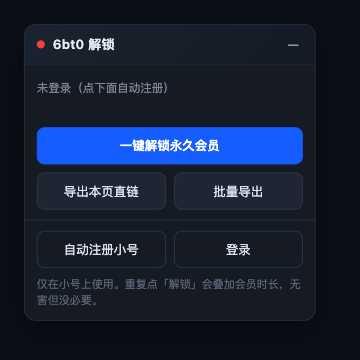
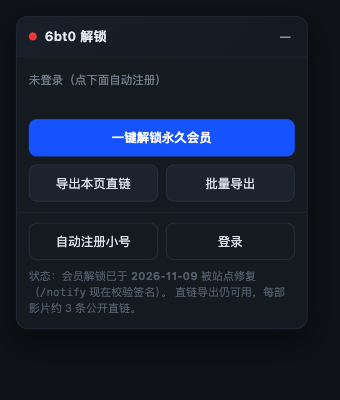
docs+feat(v1.1.0): 站点已修复支付回调，改为如实标注状态；保留直链导出能力
- /notify 现在校验签名，伪造回调返回 fail，会员解锁失效
- 面板新增状态提示，解锁失败时给出明确原因
- README / 落地页 / 漏洞文档同步更新状态

diff --git a/userscript/6bt0-vip.user.js b/userscript/6bt0-vip.user.js
@@ -1,8 +1,8 @@
 // ==UserScript==
 // @name         6bt0（不太灵） 会员解锁 + 网盘直链导出
 // @namespace    https://github.com/Yanqing797/6bt0-unlock
-// @version      1.0.3
-// @description  影视站 6bt0 / 0bt0~9bt0 一键解锁永久会员（伪支付回调），并批量导出全站网盘直链
+// @version      1.1.0
+// @description  6bt0 / 0bt0~9bt0 网盘直链批量导出（会员解锁已于 2026-11-09 被站点修复，仅作记录）
 // @author       Yanqing
 // @homepageURL  https://github.com/Yanqing797/6bt0-unlock
 // @supportURL   https://github.com/Yanqing797/6bt0-unlock/issues
@@ -40,7 +40,7 @@
   const randId = () => 'u' + Date.now().toString(36).slice(-6) + Math.random().toString(36).slice(2, 4);
   const randPw = () => 'Kq' + Math.random().toString(36).slice(2, 10) + '!9';
 
-  function toast(msg, kind) {
+  function toast(msg, kind, ms) {
     const el = document.createElement('div');
     el.className = 'unlock-toast ' + (kind || 'info');
     el.textContent = msg;
@@ -48,7 +48,7 @@
     setTimeout(() => {
       el.style.opacity = '0';
       setTimeout(() => el.remove(), 400);
-    }, 2600);
+    }, ms || 2600);
   }
 
   function logStep(p) {
@@ -265,7 +265,10 @@
           </div>
         </div>
         <div class="unlock-list" id="unlock-result" style="display:none"></div>
-        <div class="unlock-tip">仅在小号上使用。重复点「解锁」会叠加会员时长，无害但没必要。</div>
+        <div class="unlock-tip" id="unlock-status">
+          状态：会员解锁已于 <b>2026-11-09</b> 被站点修复（<code>/notify</code> 现在校验签名）。
+          直链导出仍可用，每部影片约 3 条公开直链。
+        </div>
       </div>`;
     document.body.appendChild(p);
 
@@ -335,7 +338,8 @@
           toast('✔ 永久会员已开通：' + (r.user.vip_expire_at || ''), 'ok');
           await refreshMeta();
         } else {
-          toast('没到账，回调返回：' + r.cb, 'err');
+          toast('解锁失败：站点已修复支付回调（回调返回 ' + (r.cb || 'fail') + '）。'
+                + '当前仍可点「导出本页直链」拿公开直链。', 'err', 6000);
         }
       } else if (kind === 'export') {
         const m = location.pathname.match(/\/mv\/(\d+)/) || location.pathname.match(/\/tv\/(\d+)/);

diff --git a/docs/index.html b/docs/index.html
@@ -62,6 +62,11 @@
       🦞 GreasyFork 页
     </a>
   </div>
+  <div style="background:#3a1215;border:1px solid #7a2a2f;border-radius:10px;padding:14px 18px;margin:0 0 22px;font-size:14px;line-height:1.6;color:#ffd9dc">
+    <b>⚠ 会员解锁已于 2026-11-09 被站点修复</b><br>
+    <span style="color:#e8b1b5">站点给支付回调加了签名校验，伪造请求现在只返回 <code style="background:#2a0e10;border-color:#7a2a2f;color:#ffd9dc">fail</code>。
+    仍然可用的功能：<b>网盘直链导出</b>（每部影片约 3 条公开直链，含提取码）。</span>
+  </div>
   <div class="hint">点「一键安装」后 Tampermonkey 会弹出安装页，点「安装」即可。安装源走 GreasyFork CDN，国内直连可用；没装油猴的话先看下面的第一步。</div>
 
   <img class="shot" src="panel.png" alt="面板截图">

diff --git a/README.md b/README.md
@@ -1,7 +1,10 @@
 # 6bt0（不太灵） 会员解锁 + 网盘直链导出
 
-> 一个油猴脚本，把影视资源站 6bt0（及 `0bt0`~`9bt0` 全系镜像）的会员墙直接拆掉：
-> **一键开永久会员、一键导出全部网盘直链。** 装完点两下就行，不需要懂技术。
+> ⚠ **状态：会员解锁部分已失效。** 站点于 **2026-11-09** 修复了支付回调，`/notify` 现在校验签名，伪造回调只会返回 `fail`，订单停在待支付。
+> 仍在工作的能力：**网盘直链导出**（每部影片约 3 条公开直链，含提取码）。本文档保留完整漏洞分析，作为「支付回调裸奔」的案例记录。
+
+> 一个油猴脚本，针对影视资源站 6bt0（及 `0bt0`~`9bt0` 全系镜像）：
+> **批量导出网盘直链**，同时记录了一次完整的「支付回调无签名校验」利用与修复过程。
 
 **🌐 在线安装页（分享这个链接最省事）：https://yanqing797.github.io/6bt0-unlock/**
 
@@ -13,12 +16,12 @@
 
 ## 这是什么
 
-| 能力 | 说明 |
-|---|---|
-| 🎟 **一键永久会员** | 利用站点支付回调的鉴权缺陷，0 元开通终身会员（其实是给订单改个状态） |
-| 📥 **导出全部网盘直链** | 阿里 / 夸克 / 迅雷 / 百度 / 115 / 光鸭 / UC / 123 / 移动，带提取码，一键复制 + 下载 txt |
-| 🧾 **批量导出** | 一次填多个影片 id，串行抓完打包下载 |
-| 👶 **自动注册小号** | 没账号？点一下自动注册一个随机账号并登录 |
+| 能力 | 状态 | 说明 |
+|---|---|---|
+| 📥 **导出网盘直链** | ✅ 可用 | 阿里 / 夸克 / 迅雷 / 百度 / 115 / 光鸭 / UC / 123 / 移动，带提取码，一键复制 + 下载 txt。每部影片约 3 条公开直链 |
+| 🧾 **批量导出** | ✅ 可用 | 一次填多个影片 id，串行抓完打包下载 |
+| 👶 **自动注册小号** | ✅ 可用 | 点一下自动注册随机账号并登录（验证码是算术题） |
+| 🎟 **一键永久会员** | ❌ 已失效 | 曾经靠 `/notify` 无签名校验白嫖终身会员；站点 2026-11-09 补上签名校验后失效 |
 
 ---
 

diff --git a/docs/how-it-works.md b/docs/how-it-works.md
@@ -1,6 +1,9 @@
 # 漏洞细节：6bt0 支付回调无签名校验
 
 > 记录时间：2026-11-08。写作目的是说明一条很典型的「支付回调裸奔」问题，供开发自查。
+
+> ⚠ **2026-11-09 更新：该问题已被站方修复。** `/notify` 现在校验签名，任何伪造请求返回 `fail`，订单不再被置为已支付。
+> 本文保留原样，作为完整的问题记录与修复对照。
 > 本文不包含任何凭据，文中订单号/账号均为测试期产生的临时数据。
 
 ---
